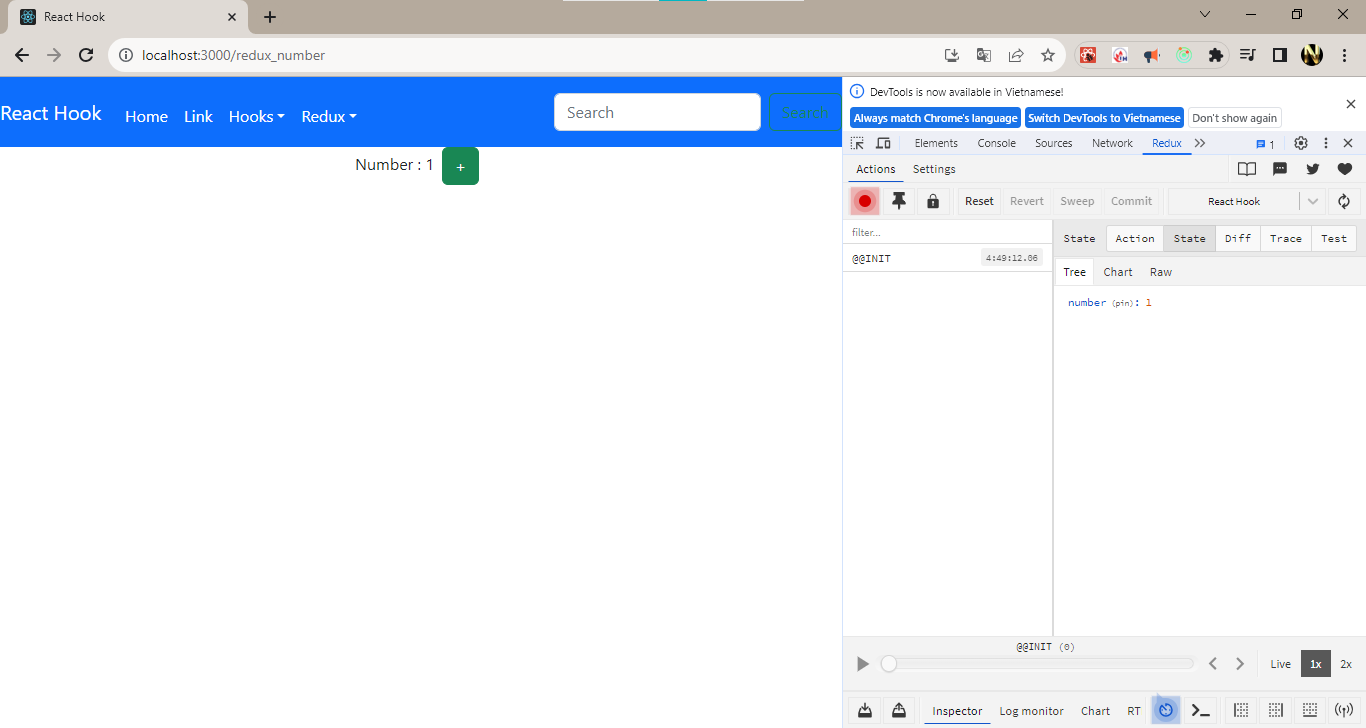
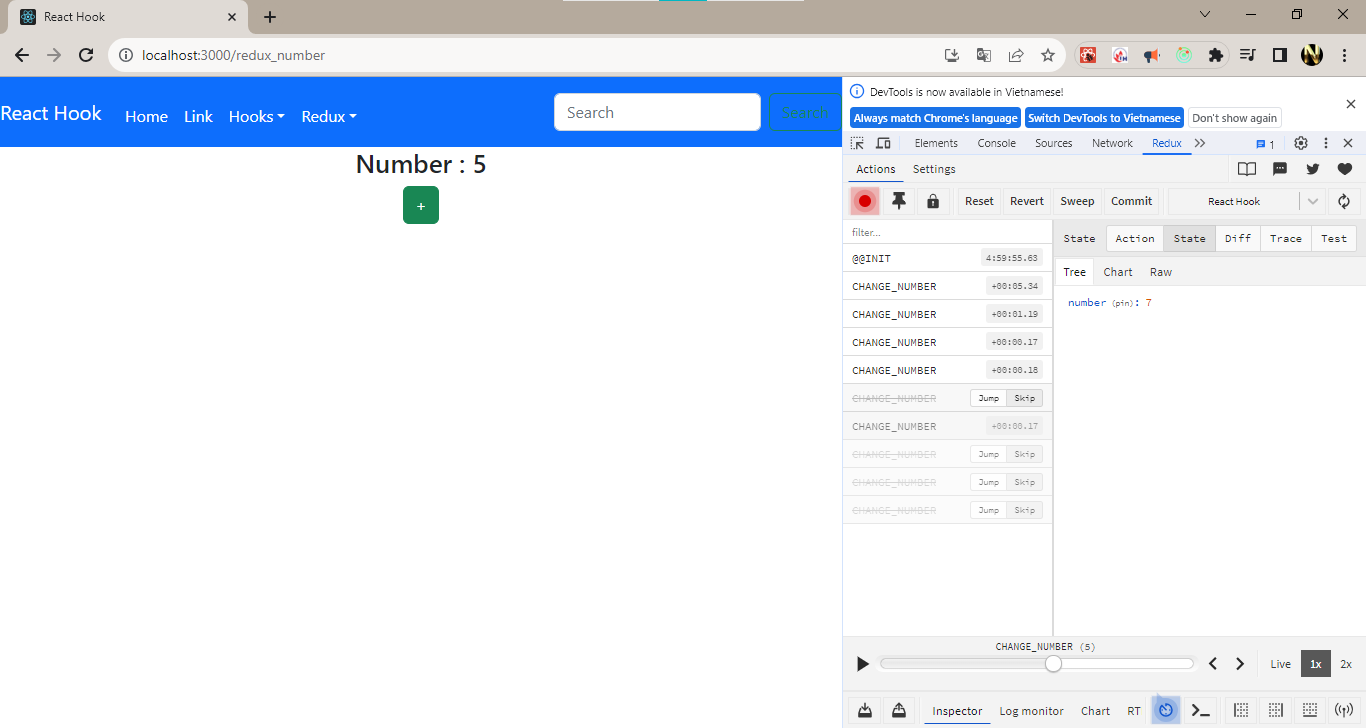
use - useSelector, useDispatch - imp react-redux

diff --git a/react_buoi10/src/pages/UseRedux/DemoNumber/DemoNumber.jsx b/react_buoi10/src/pages/UseRedux/DemoNumber/DemoNumber.jsx
@@ -1,21 +1,39 @@
 // rfc
 import React from "react";
-import { connect } from "react-redux";
+import { useDispatch, useSelector } from "react-redux";
+// import { connect } from "react-redux";
 
 function DemoNumber(props) {
-  return <div className="container">
-    Number : {props.number}
+  //lay data redux theo fun
+  const number = useSelector((state) => state.number);
 
-    <button onClick={() => {
-        // const action = {
-        //     type:"ADD_NUMBER"
-        // }
-    }} type="button" className="btn btn-success mx-2">+</button>
-  </div>;
+  const dispatch = useDispatch();
+
+  return (
+    <div className="container">
+      <h3>Number : {number}</h3>
+
+      <button
+        onClick={() => {
+          const action = {
+            type: "CHANGE_NUMBER",
+            payload: number + 1,
+          };
+          dispatch(action);
+        }}
+        type="button"
+        className="btn btn-success mx-2"
+      >
+        +
+      </button>
+    </div>
+  );
 }
 //reduxmap -- kieu cu
-const mapStateToProps = (state) => ({
-    number : state.number
-});
+// const mapStateToProps = (state) => ({
+//     number : state.number
+// });
 
-export default connect(mapStateToProps)(DemoNumber);
+// export default connect(mapStateToProps)(DemoNumber);
+
+export default DemoNumber;

diff --git a/react_buoi10/src/redux/configStore.js b/react_buoi10/src/redux/configStore.js
@@ -4,8 +4,12 @@ import {combineReducers, createStore} from 'redux'
 const rootReducer = combineReducers({
 
     number: (state=1, action) =>{
-        switch (action.type) {
+        let {type, payload} = action;
+        switch (type) {
             
+            case "CHANGE_NUMBER":
+                state = payload;
+                break;
         
             default:
                 break;

diff --git a/react_buoi10/README.md b/react_buoi10/README.md
@@ -11,6 +11,7 @@
     - link Api Shoes Shop : https://shop.cyberlearn.vn/api/Product
 
 ## Anh minh hoa
+![...](./images/img_code.png)
 ![...](./images/img_minhHoaBuoi10.png)
 
 ### Anh UseEffectDemo
@@ -32,5 +33,8 @@
 
 ### redux
 
-#### redux cũ 
+#### redux new 
+    - sử dụng useSelector(state => state.number)
+    - useDispatch() de gui action
+
 ![...](./images//img_redux.png)
